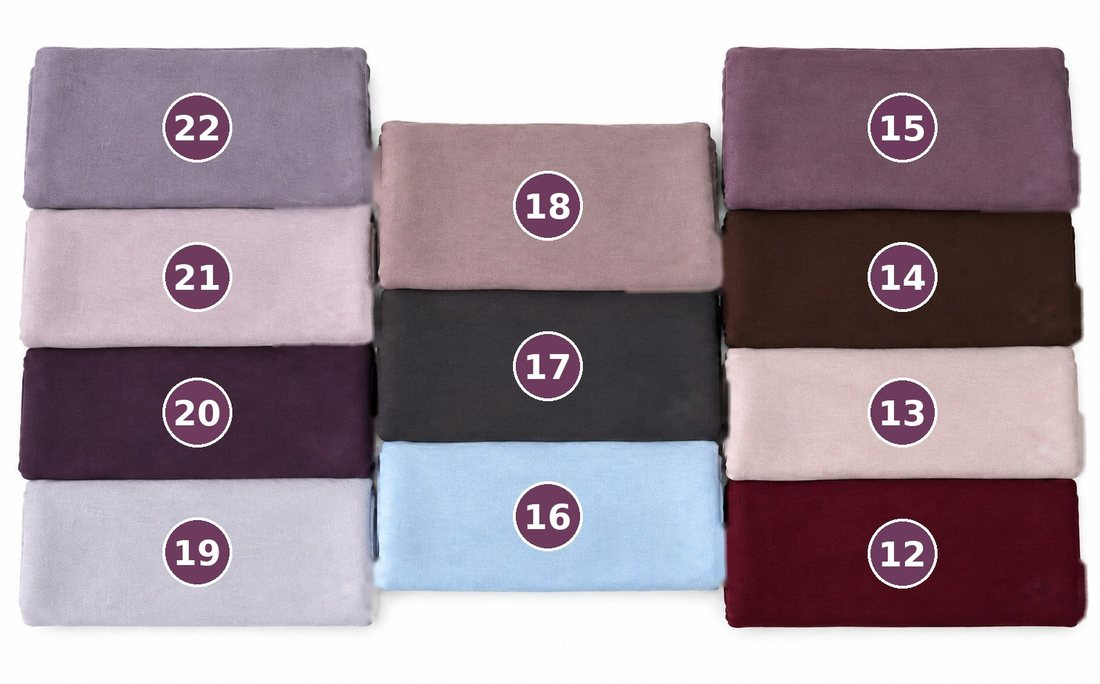
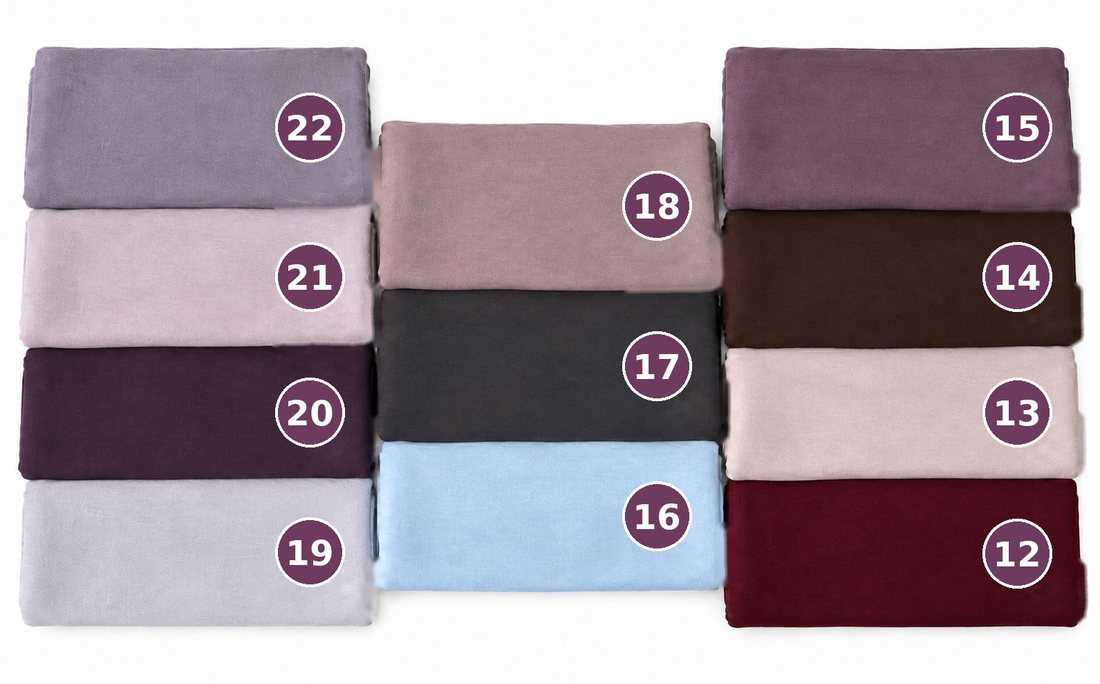
Crinkle photos: numbers on the right side of each piece; selection pills on the left
Claude-Session: https://claude.ai/code/session_013TcVRn1Hf39AJje3vKwoLh

diff --git a/mukassar/index.html b/mukassar/index.html
@@ -137,10 +137,10 @@ footer{text-align:center;font-size:12px;color:var(--muted)}
 .done .cod{font:800 18px var(--display);color:var(--ok)}
 .done .tip{margin:4px 0 0;background:#fff7e0;border-radius:12px;padding:12px;font-weight:600;width:100%}
 [hidden]{display:none !important}
-/* Numbers sit in the middle of each piece on these photos, so keep the selection pills at the sides. */
-.photo .badge{left:auto;right:3px;top:50%;bottom:auto;transform:translateY(-50%);font-size:11px;padding:1px 1px 1px 6px;gap:2px}
+/* Numbers sit on the right side of each piece on these photos, so the selection pills go on the left. */
+.photo .badge{left:3px;right:auto;top:50%;bottom:auto;transform:translateY(-50%);font-size:11px;padding:1px 1px 1px 6px;gap:2px}
 .photo .badge .minus{width:19px;height:19px;font-size:14px}
-.photo .low{top:50%;right:3px;transform:translateY(-50%);font-size:10.5px;padding:4px 7px}
+.photo .low{top:50%;right:auto;left:3px;transform:translateY(-50%);font-size:10.5px;padding:4px 7px}
 .photo .spot.out::after{inset:50% auto auto 4px;transform:translateY(-50%);margin:0;font-size:11px;padding:5px 9px}
 </style>
 </head>
